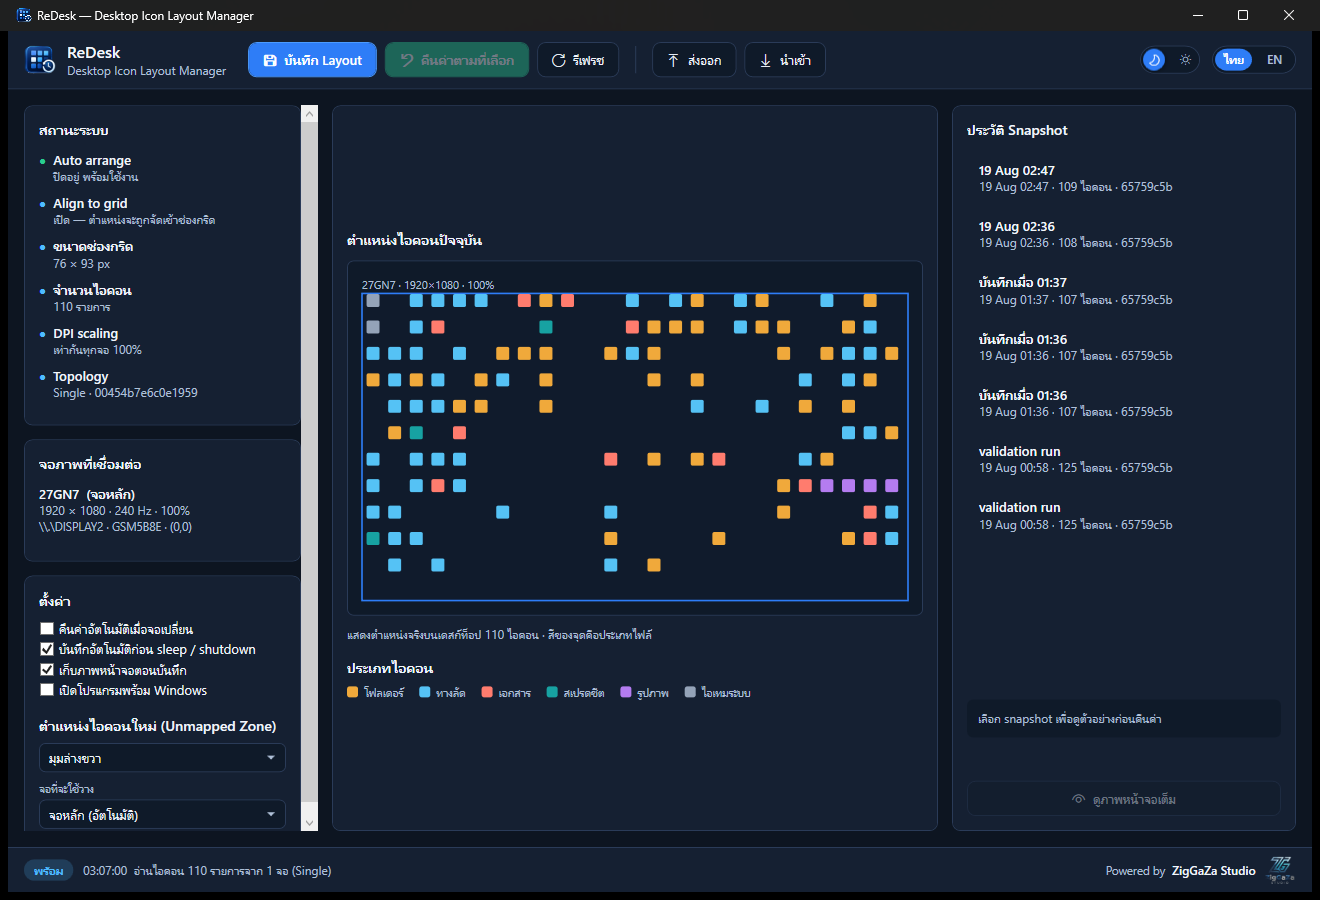
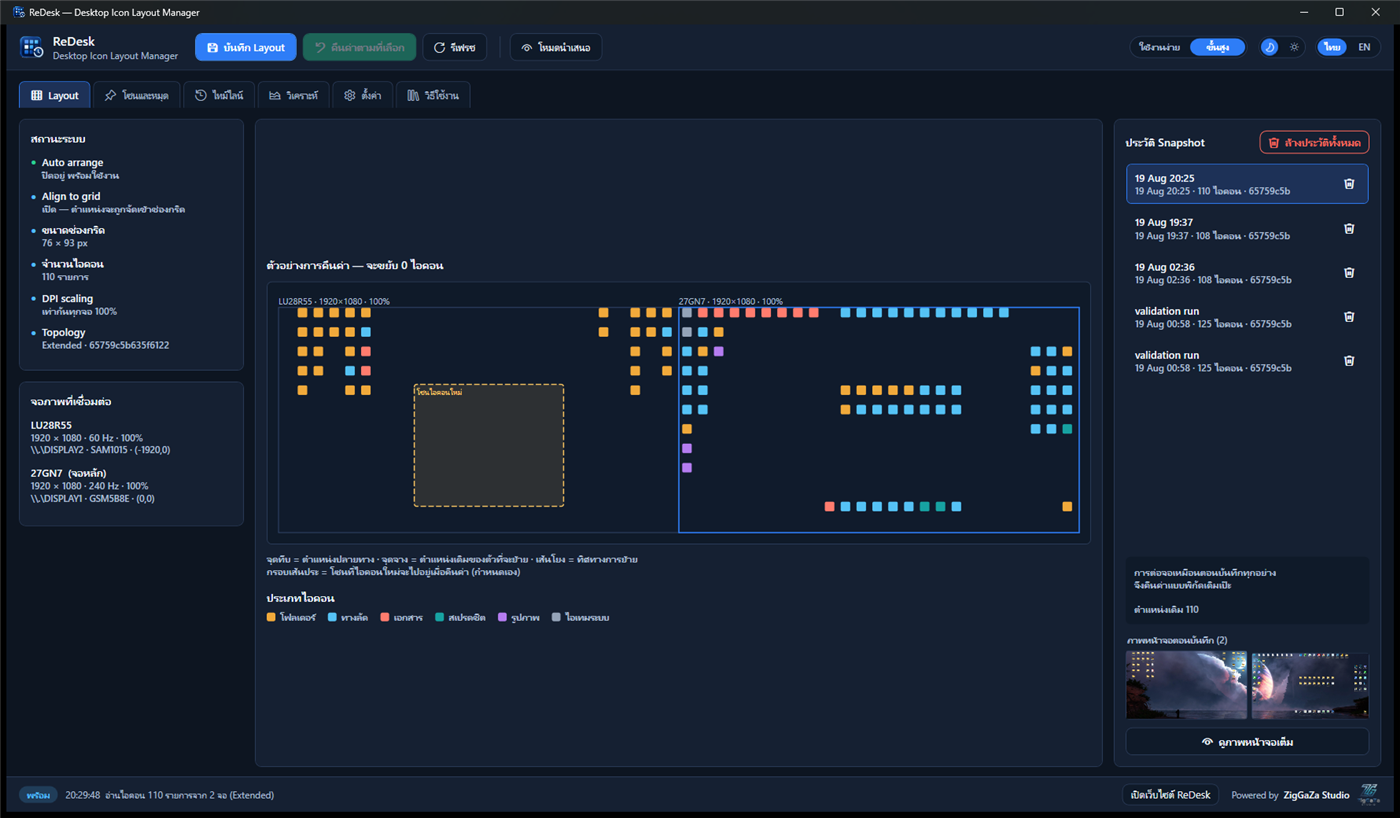
Refresh screenshots and cover the new interface work

diff --git a/docs/index.html b/docs/index.html
@@ -305,7 +305,7 @@
   html.th-wrap summary, html.th-wrap .eyebrow, html.th-wrap .sec-head p,
   html.th-wrap li, html.th-wrap td, html.th-wrap .meta,
   html.th-wrap .lede, html.th-wrap .card p, html.th-wrap .step p, html.th-wrap .prob p,
-  html.th-wrap .dl p{
+  html.th-wrap .dl p, html.th-wrap figcaption{
     word-break:keep-all;
     text-wrap:var(--th-wrap, balance);
     /* Safety valve: keep-all alone would push a run that is wider than its column off the
@@ -318,10 +318,13 @@
   html[lang="en"] summary, html[lang="en"] .eyebrow, html[lang="en"] .sec-head p,
   html[lang="en"] li, html[lang="en"] td, html[lang="en"] .meta,
   html[lang="en"] .lede, html[lang="en"] .card p, html[lang="en"] .step p,
-  html[lang="en"] .prob p, html[lang="en"] .dl p{
+  html[lang="en"] .prob p, html[lang="en"] .dl p, html[lang="en"] figcaption{
     text-wrap:balance;
   }
 
+  /* Captions are prose and sit in a narrow column, where the balancer runs out of room
+     and starts cutting Thai words in half. pretty stays inside the word marks. */
+  html.th-wrap figcaption{text-wrap:pretty}
   /* For short terms that must never be split, whatever the language: "64-bit", "Wi-Fi". */
   .nb{white-space:nowrap}
 
@@ -486,6 +489,7 @@
         <ul>
           <li data-i18n="f3.a">ดูตัวอย่างก่อนคืนค่าจริงเสมอ ไม่มีการเปลี่ยนแปลงแบบไม่ทันตั้งตัว</li>
           <li data-i18n-html="f3.b">แต่ละ snapshot เก็บ <strong>ภาพหน้าจอจริง</strong> แยกตามจอไว้ให้ดูย้อนหลัง</li>
+          <li data-i18n="f3.c">ลบภาพในไทม์ไลน์ทีละรูป หรือล้างเฉพาะรูปทั้งหมดเพื่อคืนพื้นที่ดิสก์ โดยตำแหน่งไอคอนยังอยู่ครบ</li>
         </ul>
       </div>
 
@@ -550,7 +554,7 @@
           <li data-i18n-html="f9.a">ตั้ง<strong>โซนมีชื่อพร้อมกฎ</strong> — ไฟล์ประเภทไหนหรือชื่อขึ้นต้นอะไร ไปโซนไหน</li>
           <li data-i18n="f9.b">ไอคอนใหม่ถูกจัดเข้าโซนที่ตรงกฎเอง ไม่ใช่กองรวมมุมเดียว</li>
           <li data-i18n-html="f9.c"><strong>ปักหมุด</strong>ไอคอนให้อยู่ที่เดิมเสมอ ชนะทุกการคืนค่า</li>
-          <li data-i18n="f9.d">ลากกำหนดพื้นที่โซนบนแผนผังได้โดยตรง</li>
+          <li data-i18n="f9.d">ลากกรอบบนแผนผังเพื่อสร้างโซนใหม่ได้ทันที ไม่ต้องกรอกพิกัด</li>
         </ul>
       </div>
 
@@ -621,11 +625,15 @@
     <div class="shots">
       <figure>
         <img src="assets/shot-dark.png" alt="ReDesk dark theme">
-        <figcaption data-i18n="shot.1">ธีมมืด · ภาษาไทย — mini-map แยกสีตามประเภทไฟล์ พร้อมสถานะระบบและประวัติ snapshot</figcaption>
+        <figcaption data-i18n="shot.1">ธีมมืด · ภาษาไทย — แผนที่ไอคอนแยกสีตามประเภทไฟล์ พร้อมสถานะระบบ ประวัติ snapshot และภาพหน้าจอของทุกจอเรียงคู่กันเหมือนจอจริง</figcaption>
       </figure>
       <figure>
         <img src="assets/shot-light.png" alt="ReDesk light theme">
-        <figcaption data-i18n="shot.2">ธีมสว่าง · ภาษาอังกฤษ — สลับได้ทันทีจากสวิตช์มุมขวาบน</figcaption>
+        <figcaption data-i18n="shot.2">ธีมสว่าง · ภาษาอังกฤษ — สลับได้ทันทีจากสวิตช์มุมขวาบน ทุกแท็บมีไอคอนกำกับให้หาง่าย</figcaption>
+      </figure>
+      <figure class="full">
+        <img src="assets/shot-zone-manual.png" alt="Manually drawn new icon zone">
+        <figcaption data-i18n-html="shot.4">กำหนด <strong>โซนไอคอนใหม่เอง</strong> ด้วยการลากกรอบบนแผนที่ — ไฟล์ใหม่ที่ยังไม่มีใน snapshot จะไปรวมกันในกรอบเส้นประนี้ แทนที่จะกระจายทับของเดิม</figcaption>
       </figure>
       <figure class="full">
         <img src="assets/shot-desktop-capture.jpg" alt="Desktop capture">
@@ -809,6 +817,7 @@ const EN = {
   "f3.p":"Keeps the last 30 snapshots so you can jump back to any of them. Delete them one at a time or clear the lot.",
   "f3.a":"Always previews before it touches anything, so nothing changes unexpectedly",
   "f3.b":"Every snapshot keeps a <strong>real screenshot</strong> of each monitor to look back at",
+  "f3.c":"Delete pictures from the timeline one at a time, or clear the pictures alone to win the disk space back while every icon position stays",
 
   "f4.h":"Mini-map preview",
   "f4.p":"A to-scale map of the whole desktop showing exactly which icons move where, before you commit",
@@ -845,7 +854,7 @@ const EN = {
   "f9.a":"Define <strong>named zones with rules</strong>: which file types, or which name patterns, belong where",
   "f9.b":"New icons are filed into the zone that matches, instead of piling up in one corner",
   "f9.c":"<strong>Pin</strong> an icon and it stays put, outranking every restore",
-  "f9.d":"Drag a zone's area straight onto the map",
+  "f9.d":"Drag a box on the map to create a zone there and then — no coordinates to type",
 
   "f10.h":"Learns from how you work",
   "f10.p":"Watches the history for icons you keep dragging back to the same spot, then offers to pin them",
@@ -877,8 +886,9 @@ const EN = {
   "f14.c":"Thai and English, switching with the rest of the app",
 
   "shot.h":"What it looks like","shot.sub":"Real captures from the running application, not mock-ups",
-  "shot.1":"Dark theme · Thai — mini-map colour-coded by file type, with system status and snapshot history",
-  "shot.2":"Light theme · English — switch instantly from the toggles in the top right",
+  "shot.1":"Dark theme · Thai — the icon map colour-coded by file type, with system status, snapshot history, and every screen's capture laid out side by side the way the monitors are",
+  "shot.2":"Light theme · English — switch instantly from the toggles in the top right; every tab carries its own icon",
+  "shot.4":"<strong>Draw the landing area for new icons yourself</strong> by dragging a box on the map — anything new that is not in the snapshot is gathered inside the dashed frame instead of scattering over what is already there",
   "shot.3":"A screenshot taken at save time — the <strong>real desktop across both monitors</strong>, with no other windows in the way, even though applications were open at the time",
 
   "how.h":"Three steps to set up",
@@ -1065,7 +1075,7 @@ document.querySelectorAll("[data-i18n],[data-i18n-html]").forEach(el => {
    Only headings and the short highlight lines are treated. Body copy already wraps
    fine and is more likely to be copied out of the page.
 --------------------------------------------------------------------------- */
-const WRAPPED = "h1,h2,h3,summary,.eyebrow,.sec-head p,li,td,.meta,.lede,.card p,.step p,.prob p,.dl p";
+const WRAPPED = "h1,h2,h3,summary,.eyebrow,.sec-head p,li,td,.meta,.lede,.card p,.step p,.prob p,.dl p,figcaption";
 const THAI_SEGMENTER = typeof Intl !== "undefined" && Intl.Segmenter
   ? new Intl.Segmenter("th", { granularity: "word" })
   : null;
